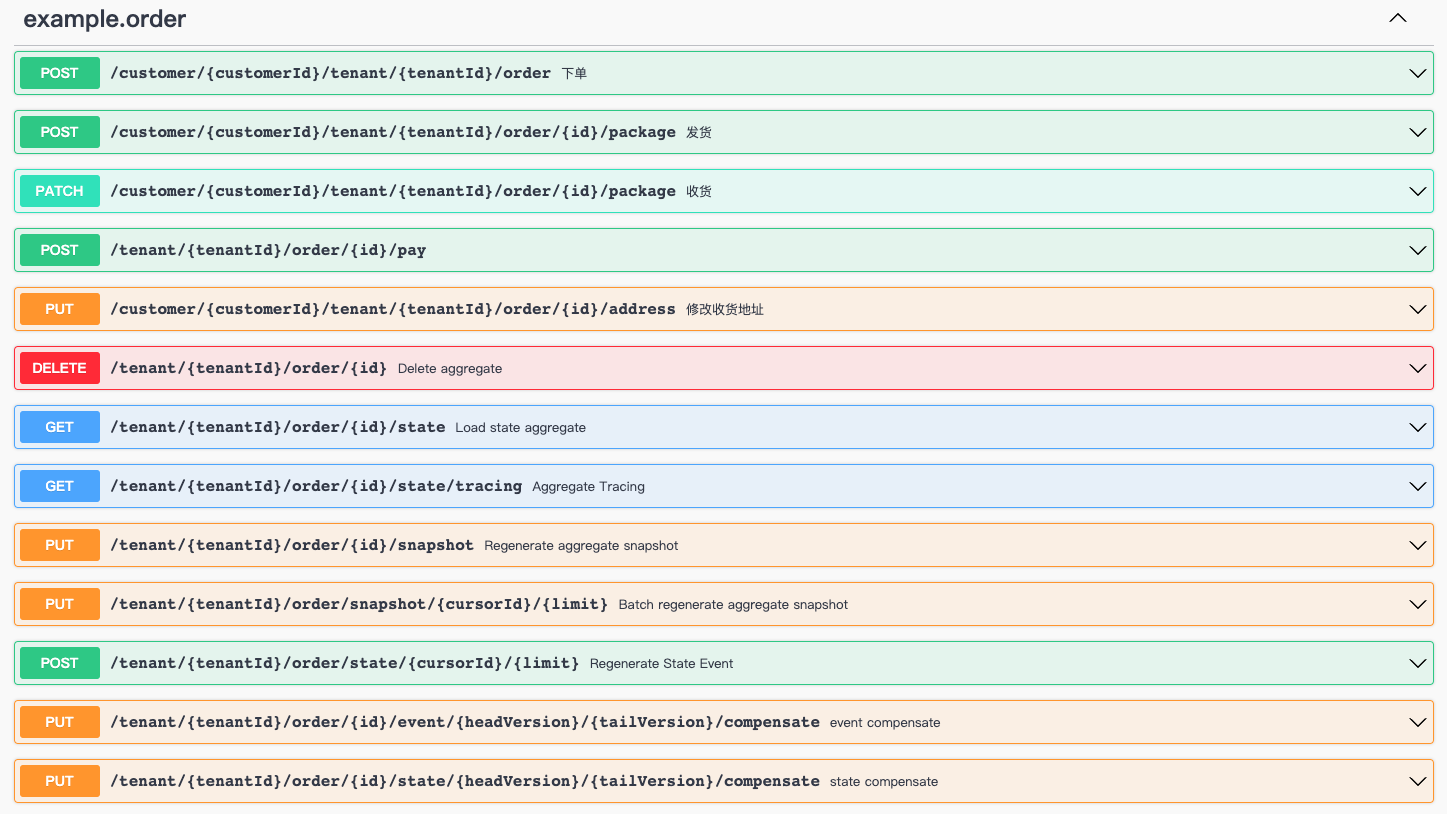
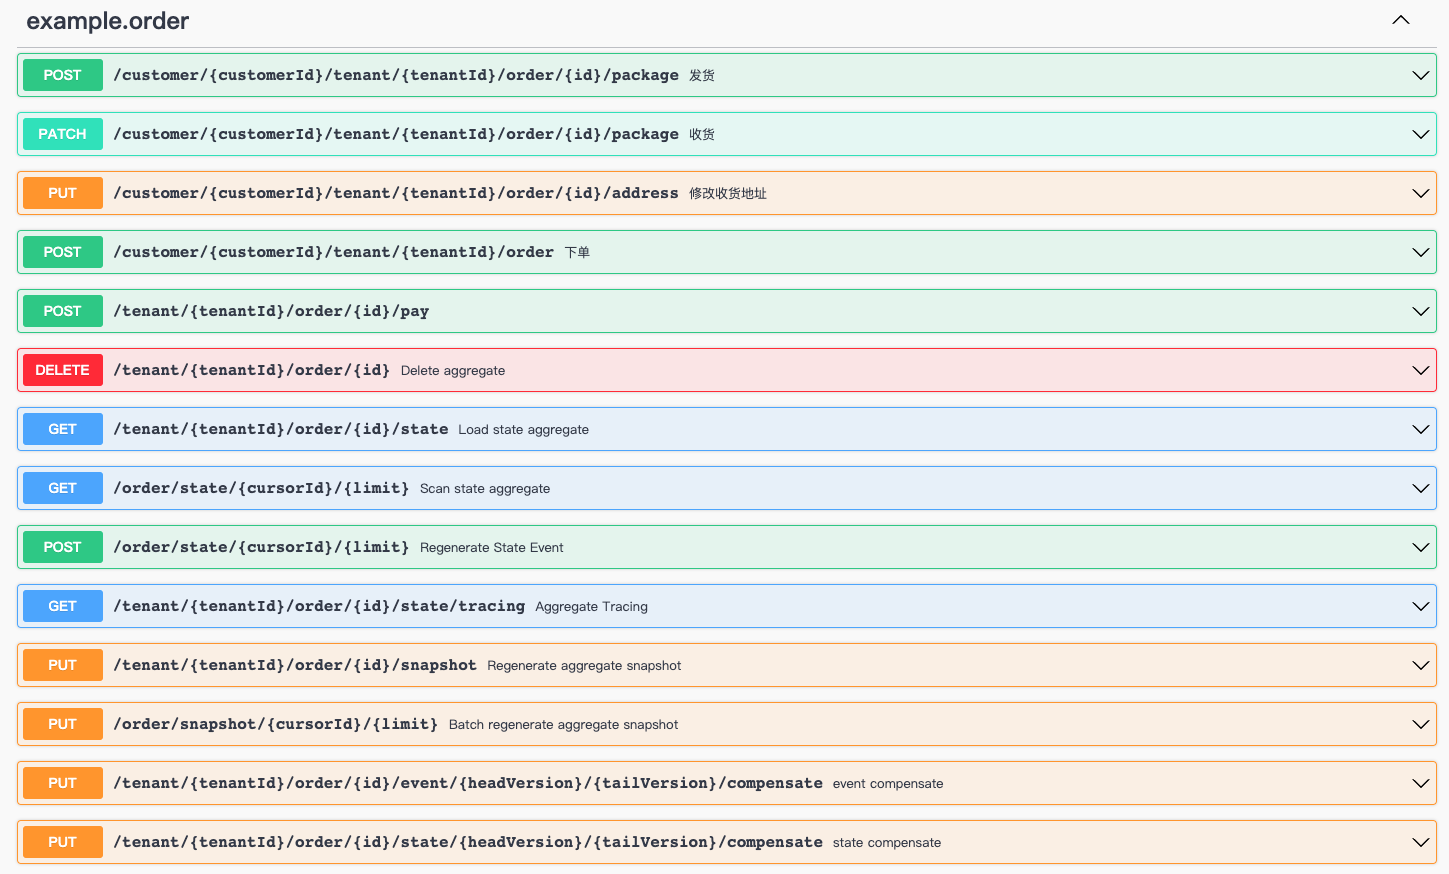
feat: support `ScanAggregateHandlerFunction`

Changed region(s): [[0.0, 0.0, 0.9952, 1.0]]

diff --git a/wow-openapi/src/main/kotlin/me/ahoo/wow/openapi/BatchRouteSpec.kt b/wow-openapi/src/main/kotlin/me/ahoo/wow/openapi/BatchRouteSpec.kt
@@ -21,6 +21,8 @@ import me.ahoo.wow.openapi.RoutePaths.BATCH_CURSOR_ID
 import me.ahoo.wow.openapi.RoutePaths.BATCH_LIMIT
 
 abstract class BatchRouteSpec : AggregateRouteSpec() {
+    override val ignoreTenant: Boolean
+        get() = true
     override val responseType: Class<*>
         get() = BatchResult::class.java
 
